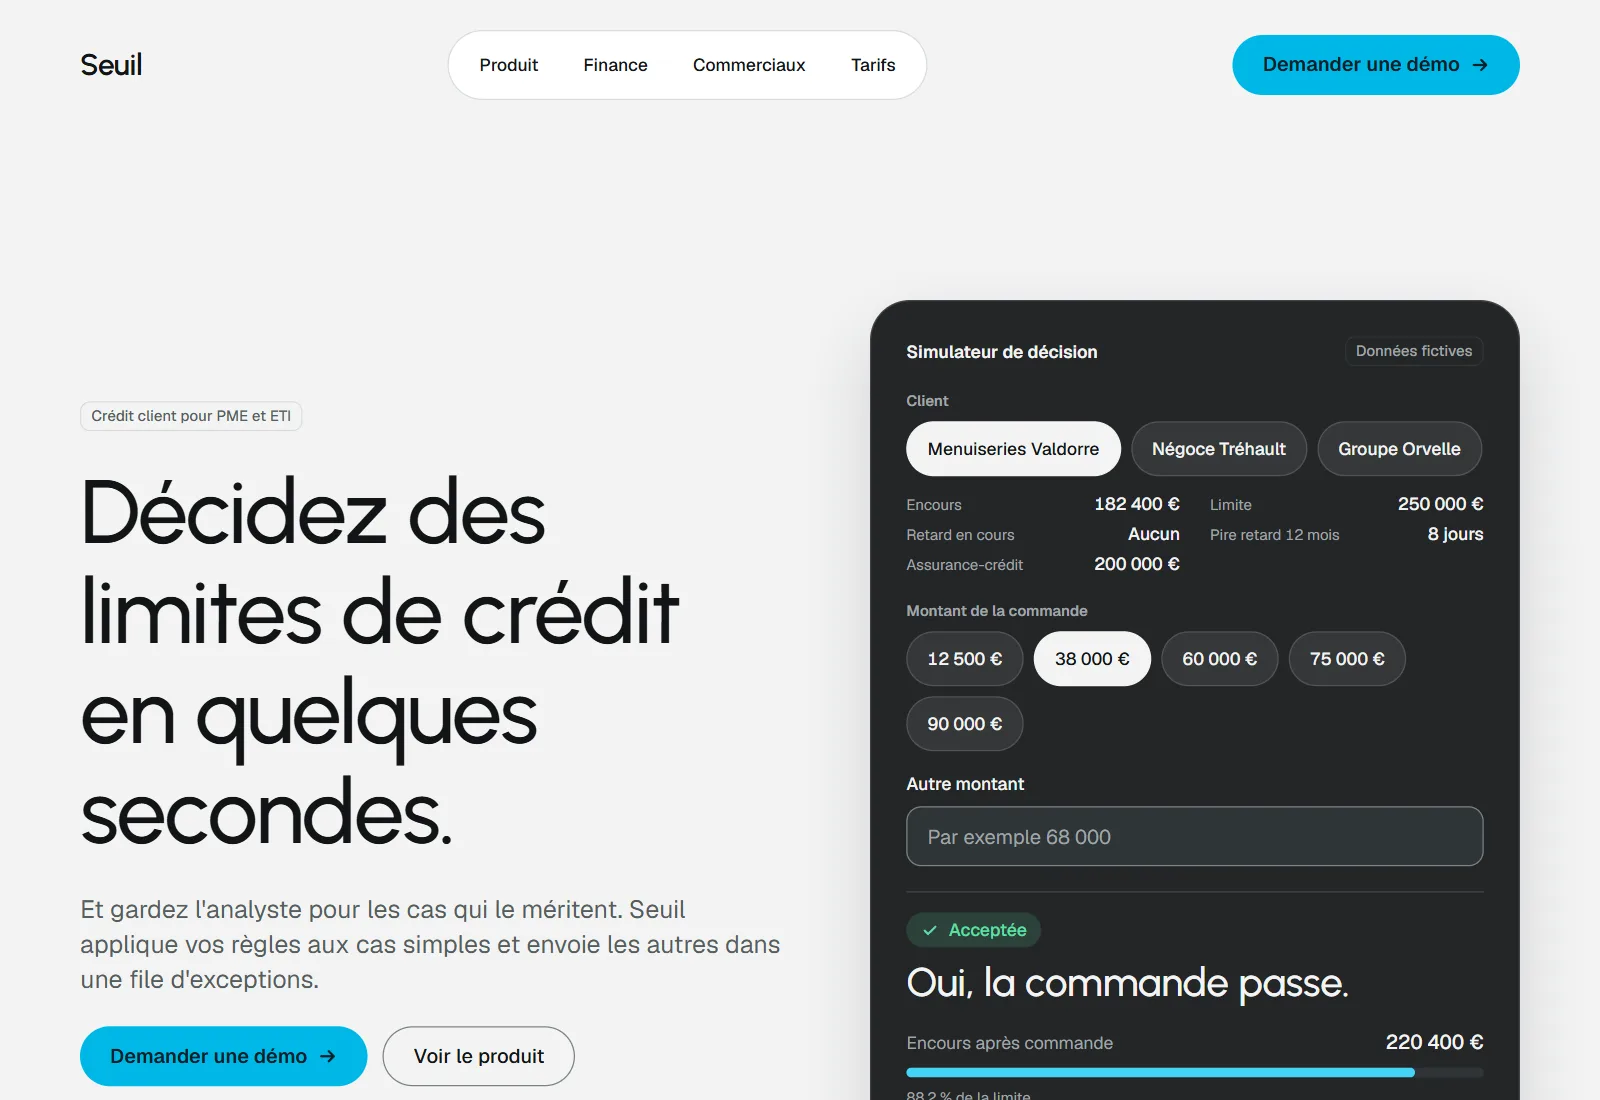
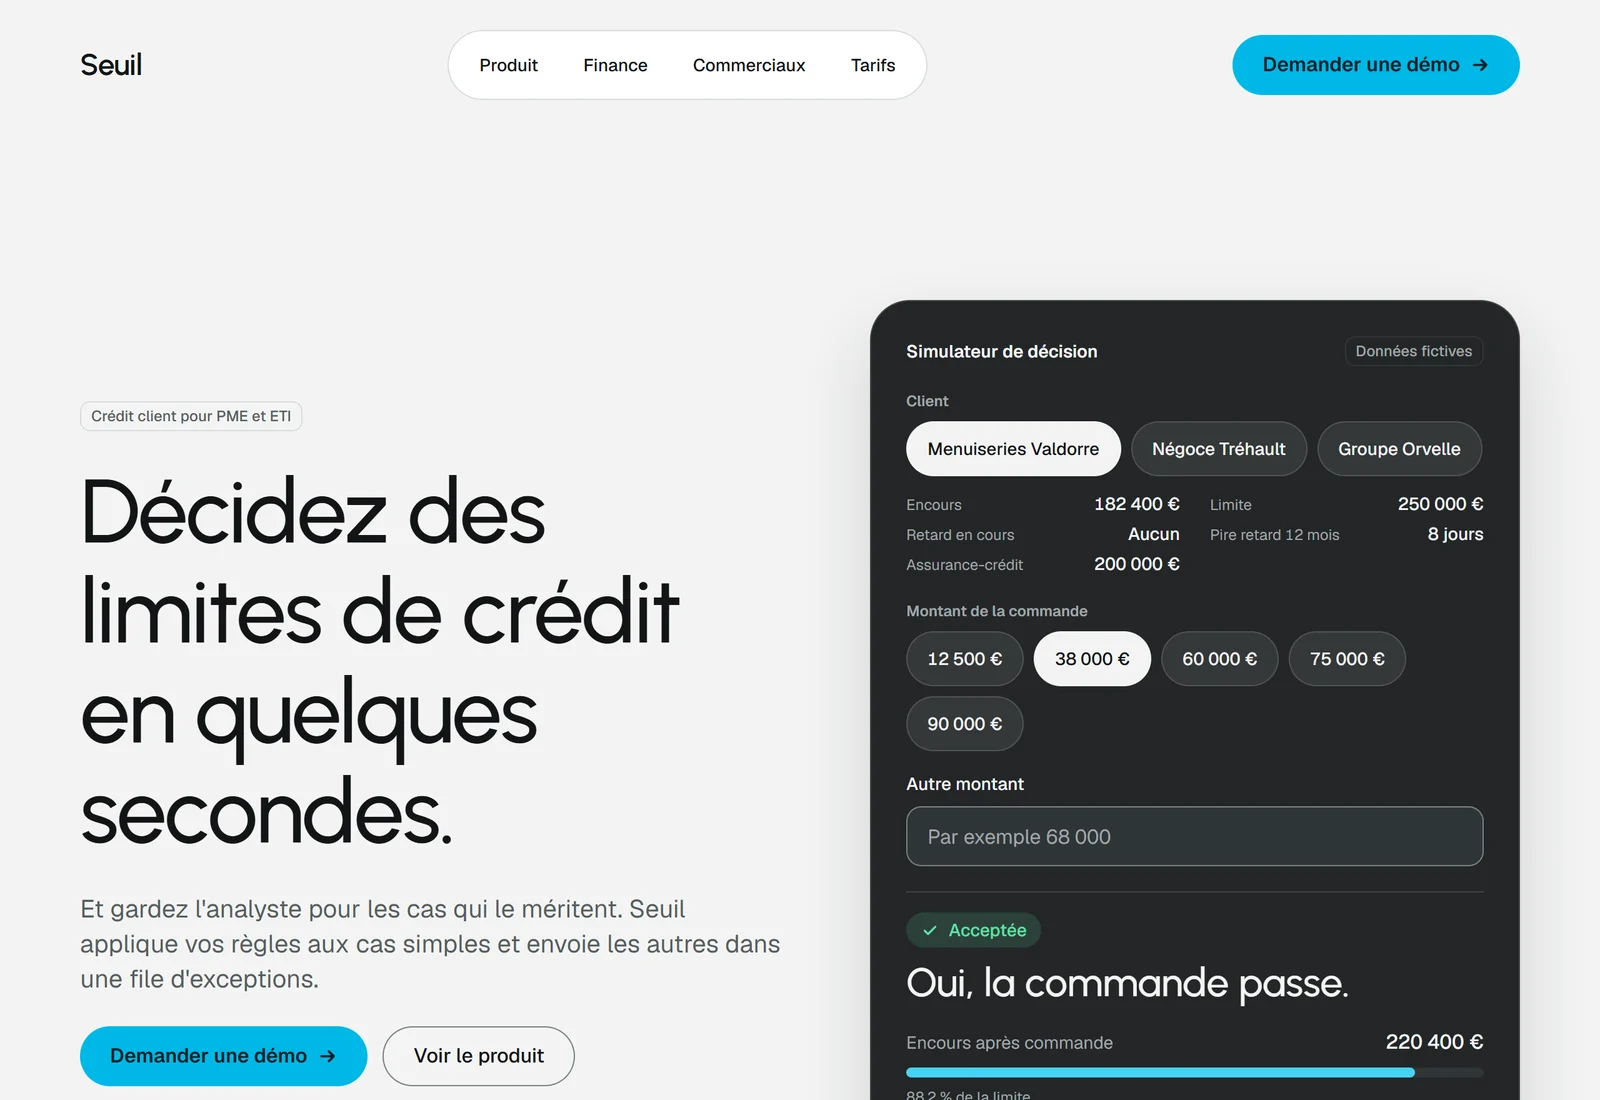
feat(seuil): replace the live iframe with a clickable hi-res preview
- The "Live" block can now show a static image linking to the site
  instead of an embedded iframe, so there is no scroll inside the page.
- Seuil uses it with a 2560x1600 capture; the card cover is re-captured
  at 2x for a sharper image.

diff --git a/src/components/CaseStudy.jsx b/src/components/CaseStudy.jsx
@@ -360,10 +360,28 @@ export default function CaseStudy({ data }) {
                 </span>
               </a>
             )}
-            {prototype.src && (
-              <div className="proto-frame reveal">
-                <iframe title={`${data.name} preview`} src={prototype.src} allowFullScreen></iframe>
-              </div>
+            {/* `image` : aperçu fixe, cliquable vers le site (pas de défilement
+                imbriqué dans la page). Sinon, `src` embarque le site en iframe. */}
+            {prototype.image ? (
+              <a
+                className="proto-frame proto-frame--img reveal"
+                href={prototype.href}
+                target="_blank"
+                rel="noopener noreferrer"
+                aria-label={prototype.linkLabel || cs.open}
+              >
+                <img src={prototype.image} alt={`${data.name} preview`} loading="lazy" />
+              </a>
+            ) : (
+              prototype.src && (
+                <div className="proto-frame reveal">
+                  <iframe
+                    title={`${data.name} preview`}
+                    src={prototype.src}
+                    allowFullScreen
+                  ></iframe>
+                </div>
+              )
             )}
           </section>
         )}

diff --git a/src/styles/case-study.css b/src/styles/case-study.css
@@ -1518,6 +1518,22 @@
   height: 100%;
   border: 0;
 }
+.proto-frame--img {
+  display: block;
+  overflow: hidden;
+}
+.proto-frame--img img {
+  position: absolute;
+  inset: 0;
+  width: 100%;
+  height: 100%;
+  object-fit: cover;
+  object-position: top;
+  transition: transform 0.7s var(--ease);
+}
+.proto-frame--img:hover img {
+  transform: scale(1.02);
+}
 
 /* ============================================================
    NEXT / FOOTER

diff --git a/src/data/case-studies/seuil.js b/src/data/case-studies/seuil.js
@@ -136,12 +136,12 @@ export const seuil = {
     idx: 'Try it',
     href: 'https://seuil.louistdesign.me',
     linkLabel: 'Visit the site',
-    src: 'https://seuil.louistdesign.me',
+    image: '/assets/seuil/home.webp',
   },
 
   footer: 'B2B SaaS product site · Seuil',
 
   shots: {
-    home: '/assets/seuil/cover.webp',
+    home: '/assets/seuil/home.webp',
   },
 }
